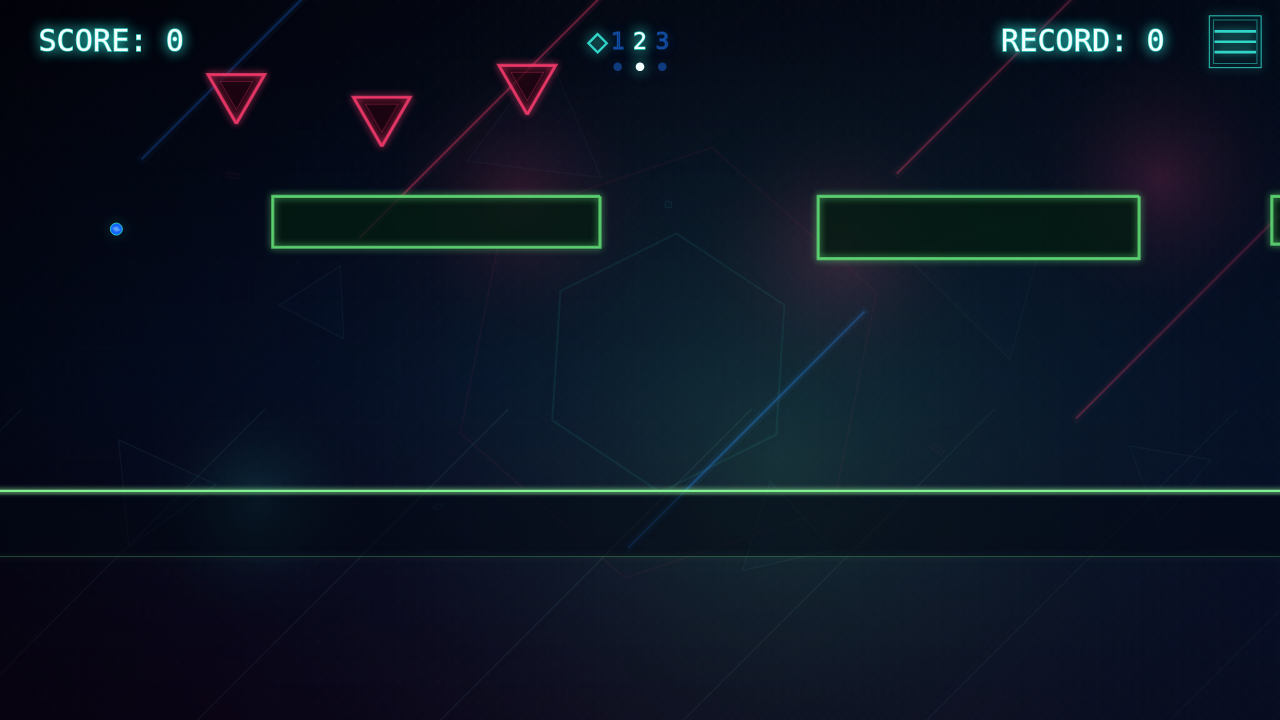
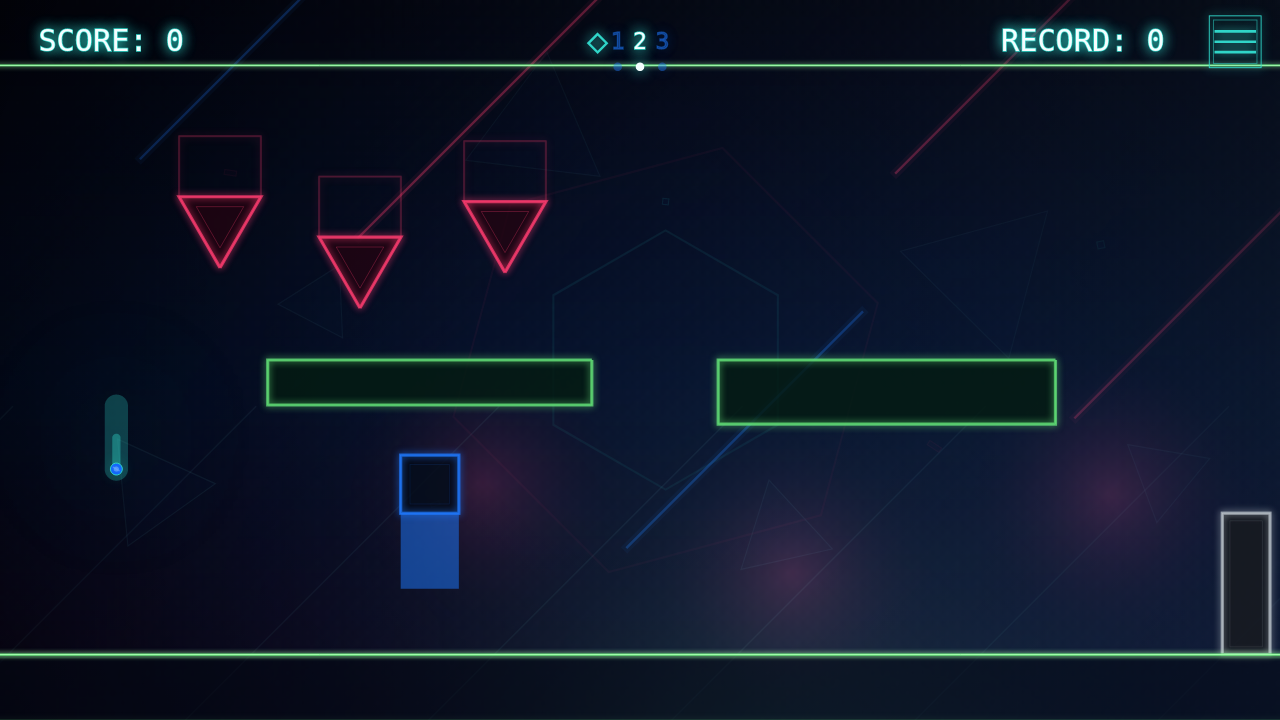
TASK-043: remove filled triangle hazard trail artifact

diff --git a/sprites/triangle.js b/sprites/triangle.js
@@ -201,14 +201,22 @@ class MultipointTrackLine extends TrackLine
         ctx.lineTo(this.pos[0][1].x + screen.x, extremum[1].min + screen.y)
         ctx.closePath()
 
-        ctx.fillStyle = this.stroke
         ctx.shadowColor = this.stroke
-        ctx.shadowBlur = config.glowBlur
         ctx.globalCompositeOperation = STYLE.visualStability.stableBrightness
             ? STYLE.visualStability.effectCompositeOperation
             : 'lighter'
-        ctx.globalAlpha = STYLE.alpha.multipointTrack
-        ctx.fill()
+
+        ctx.strokeStyle = this.stroke
+        ctx.lineJoin = 'round'
+        ctx.lineWidth = config.envelopeGlowWidth
+        ctx.shadowBlur = config.glowBlur
+        ctx.globalAlpha = config.envelopeGlowAlpha
+        ctx.stroke()
+
+        ctx.shadowBlur = 0
+        ctx.lineWidth = config.envelopeLineWidth
+        ctx.globalAlpha = config.envelopeAlpha
+        ctx.stroke()
         ctx.restore()
     }
     getPointExtremes()

diff --git a/style.js b/style.js
@@ -178,6 +178,10 @@ const STYLE = Object.freeze({
             minAlpha: 0.04,
             maxAlpha: 0.22,
             outlineAlpha: 0.36,
+            envelopeAlpha: 0.16,
+            envelopeGlowAlpha: 0.18,
+            envelopeLineWidth: 1.5,
+            envelopeGlowWidth: 5,
             glowBlur: 8,
             sampleStep: 3
         })

diff --git a/progress.md b/progress.md
@@ -84,3 +84,4 @@ TASK-043: Replaced the bad-version solid red mini-triangle interior with a clean
 TASK-044: Added a hidden-by-default RAF FPS counter toggled from the ESC pause overlay, verified live updates/readability/no console errors, and saved screenshots/TASK-044.png. Gotcha: ESC now opens/resumes the existing pause overlay during active gameplay instead of toggling the old screen debug flag.
 TASK-039: Made freezeBadVersionBackground override distant background motion, verified early-vs-after-2k isolated background screenshots have zero RGB delta, confirmed classic starts/no console errors, and refreshed screenshots/TASK-039.png. Gotcha: this intentionally prioritizes TASK-039 stability over prior distant background drift.
 TASK-045: Restored bad-version triangle hazard trails to a master-style single filled multipoint envelope instead of repeated triangle ghost copies; verified screenshot, restart behavior, no console errors, and valid JSON. Gotcha: screenshot uses a deterministic visible hazard placement so the envelope trail is easy to inspect.
+TASK-043: Converted bad-version triangle hazard trails from filled red envelopes to faint outline-only strokes, verified bad/classic browser behavior, restart reset, no console errors, valid JSON, and refreshed screenshots/TASK-043.png. Gotcha: the remaining trail is intentionally a thin rectangular outline so it does not read as a filled red hazard interior.
